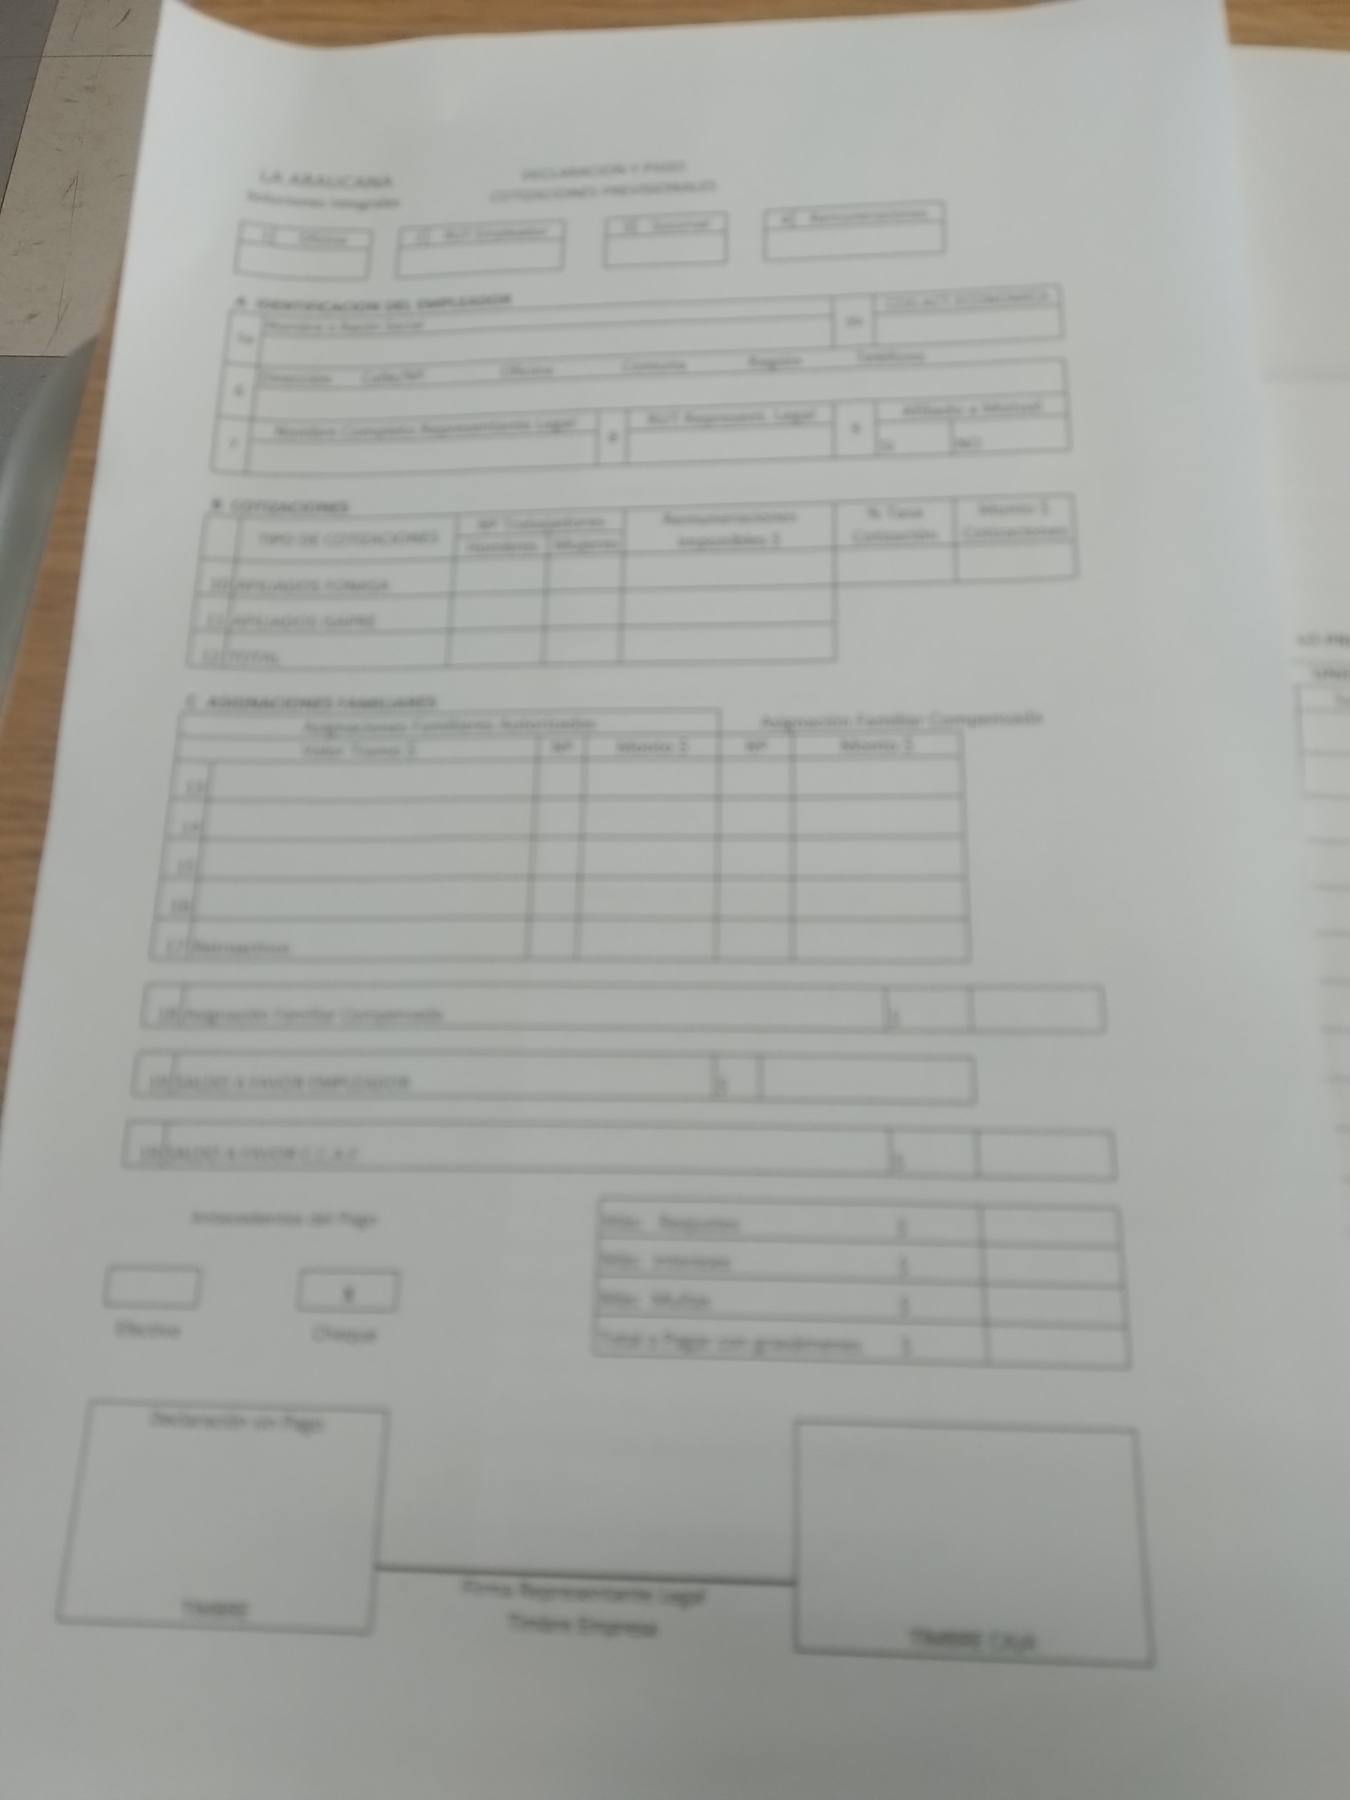
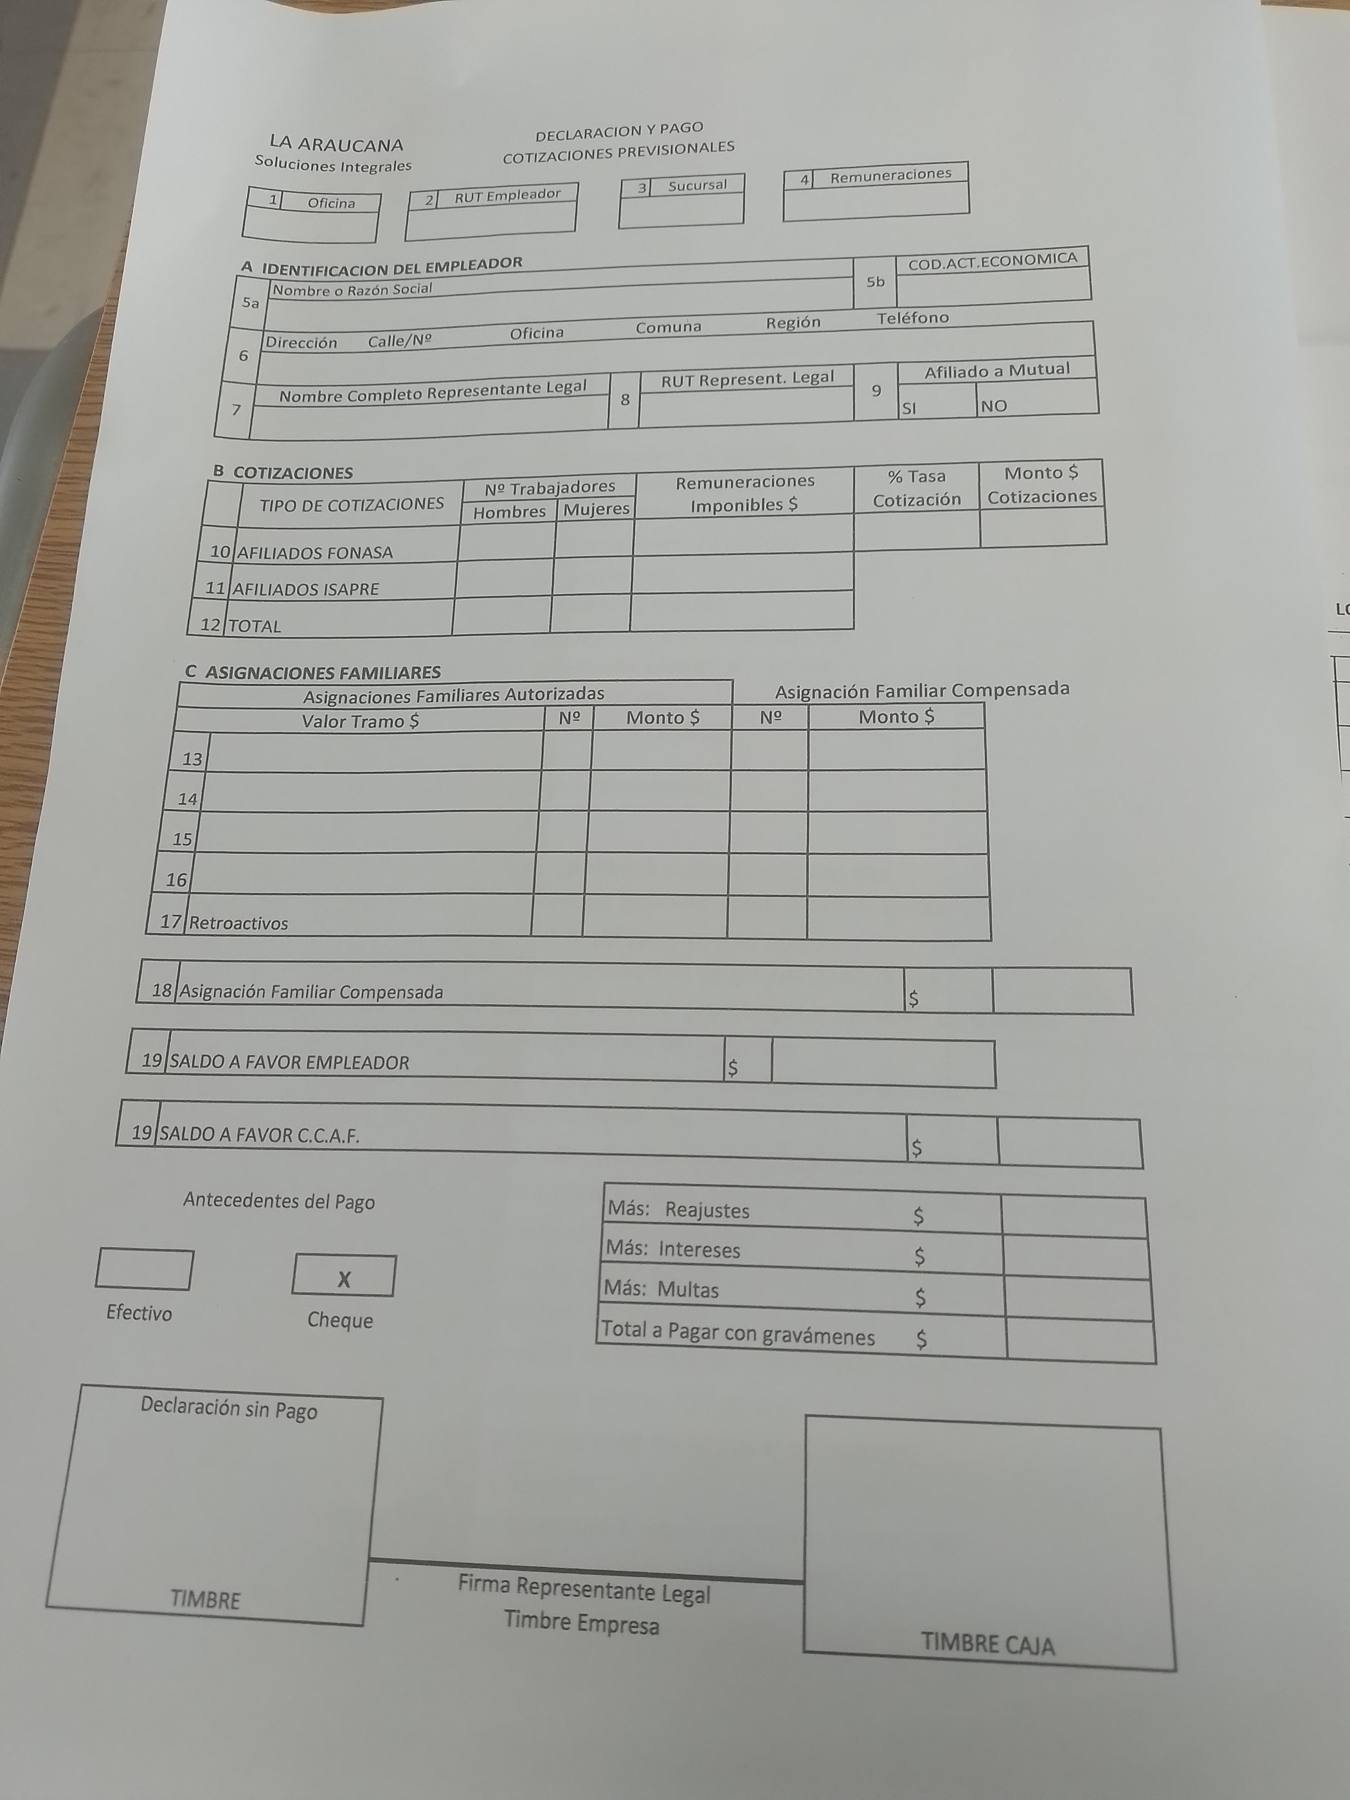
Fotos de las planillas de la guía industrial respondidas y corrige foto de La Araucana
Claude-Session: https://claude.ai/code/session_012WV3i5CNskdg7dgJ6kwcHp

diff --git a/docs/tareas/guia-industrial-completa.md b/docs/tareas/guia-industrial-completa.md
@@ -3,6 +3,8 @@
 Hoja del profesor con 3 partes (gastos del período, inventarios y compras, ventas y datos financieros) y las planillas **Detalle del gasto**, **Hoja de costos de ventas industriales** y **Hoja cálculo estado de resultados** (impuesto 27 %). Los valores del enunciado se leyeron de fotos: confírmalos con tu hoja. **Verificado con** `python3 ejemplos/guia_industrial.py` (los assert comprueban cada total).
 Fotos: [enunciado](imagenes/guia-industrial-enunciado.jpg) · [detalle del gasto](imagenes/guia-industrial-detalle-del-gasto.jpg) · [hoja de costos](imagenes/guia-industrial-hoja-de-costos.jpg) · [estado de resultados](imagenes/guia-industrial-hoja-estado-de-resultados.jpg).
 
+**Fotos de tus planillas ya respondidas:** [detalle del gasto](imagenes/respondidas/1-detalle-del-gasto-respondido.jpg) · [hoja de costos](imagenes/respondidas/2-hoja-de-costos-respondida.jpg) · [estado de resultados](imagenes/respondidas/3-estado-de-resultados-respondido.jpg). Están escritas sobre tus fotos; los nombres de las partidas del detalle del gasto van abreviados para que quepan. PDF con los cálculos: `guia-industrial-entrega.pdf`.
+
 ## 1. Planilla "Detalle del gasto"
 Regla: lo de la **fábrica** va a **CIF**; lo de oficinas a **gastos de administración**; lo de venta, reparto y promoción a **gastos de ventas**. Los que traen porcentaje se reparten (arriendo 50/30/20; seguro 60 % producción y el saldo mitad y mitad; energía: fábrica 2.100.000, ventas 500.000 y administración por diferencia = 3.000.000 − 2.100.000 − 500.000 = 400.000).
 
